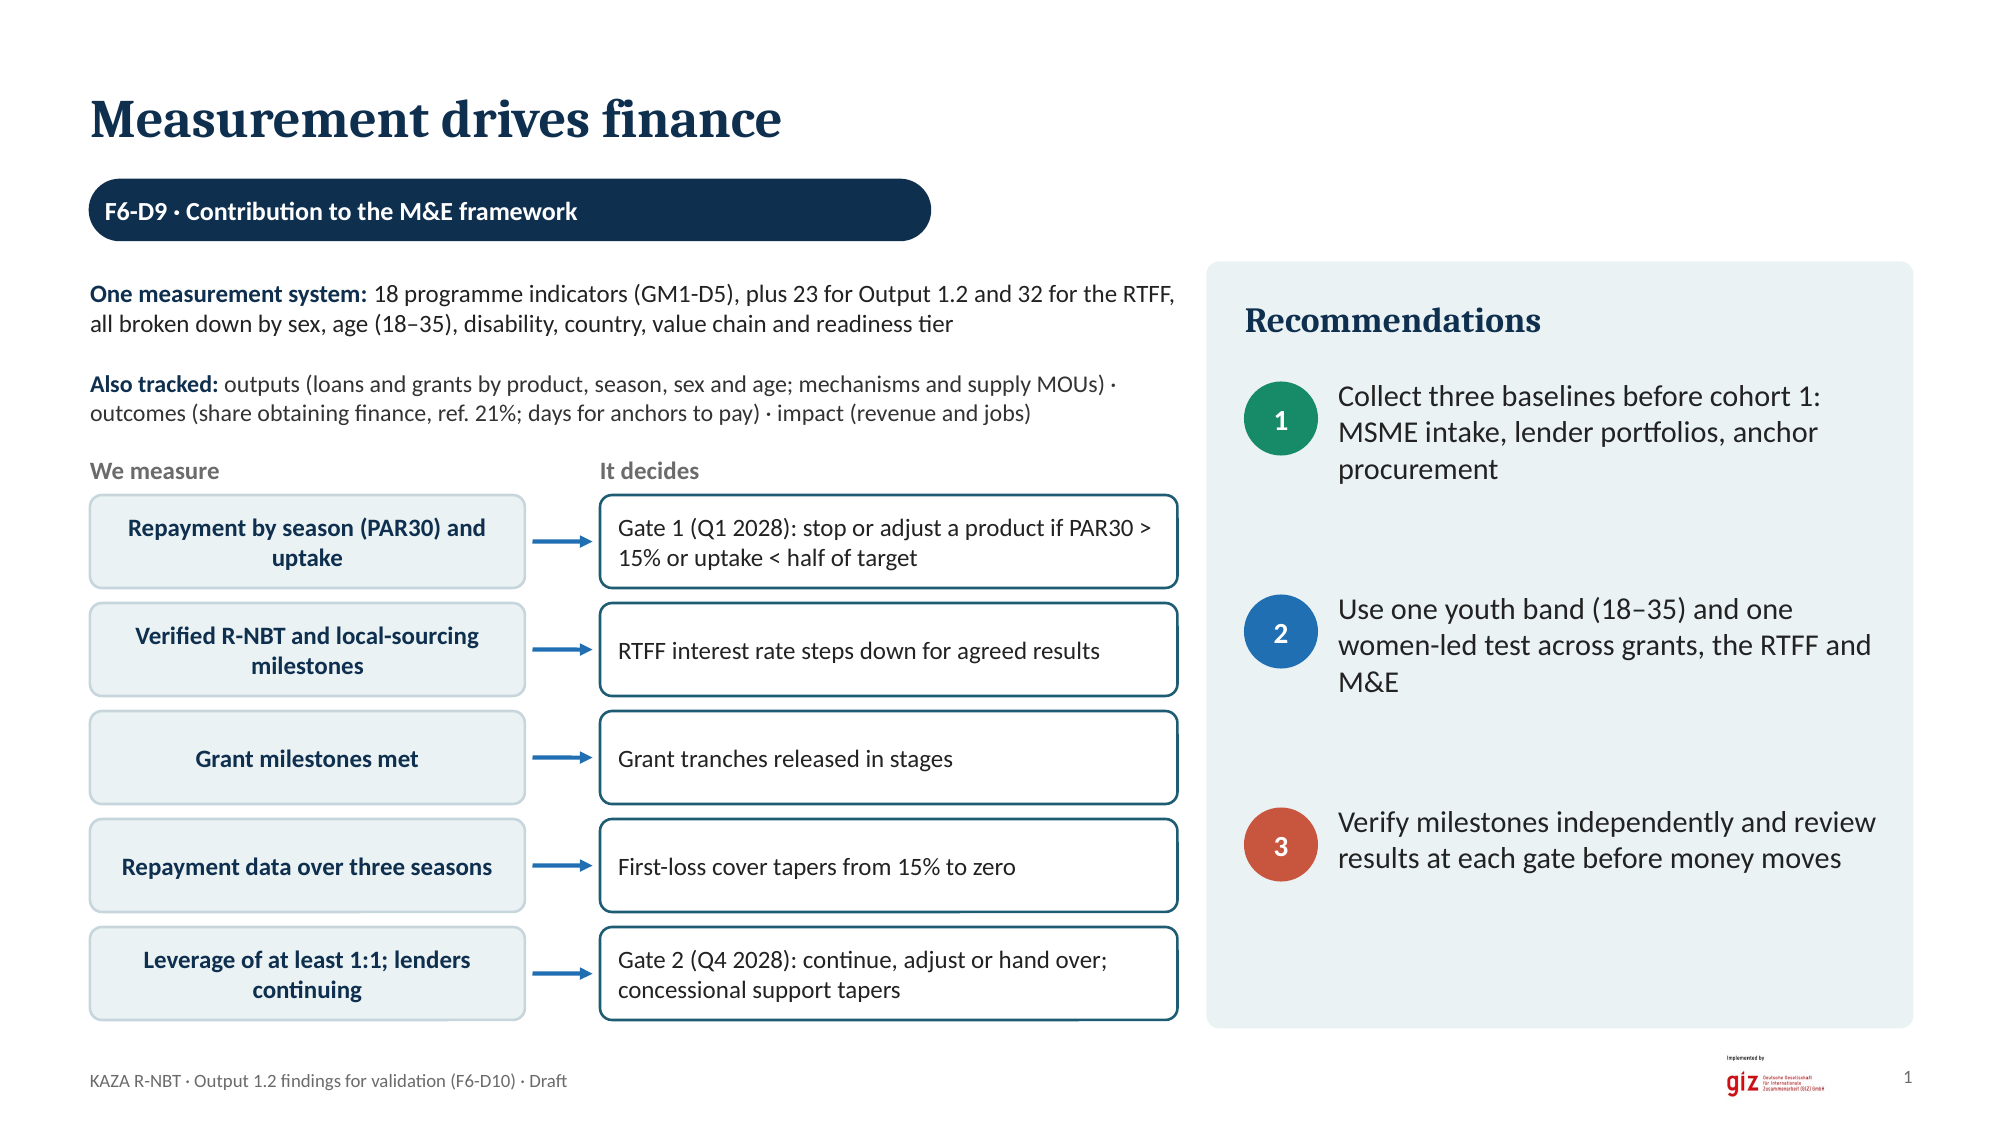
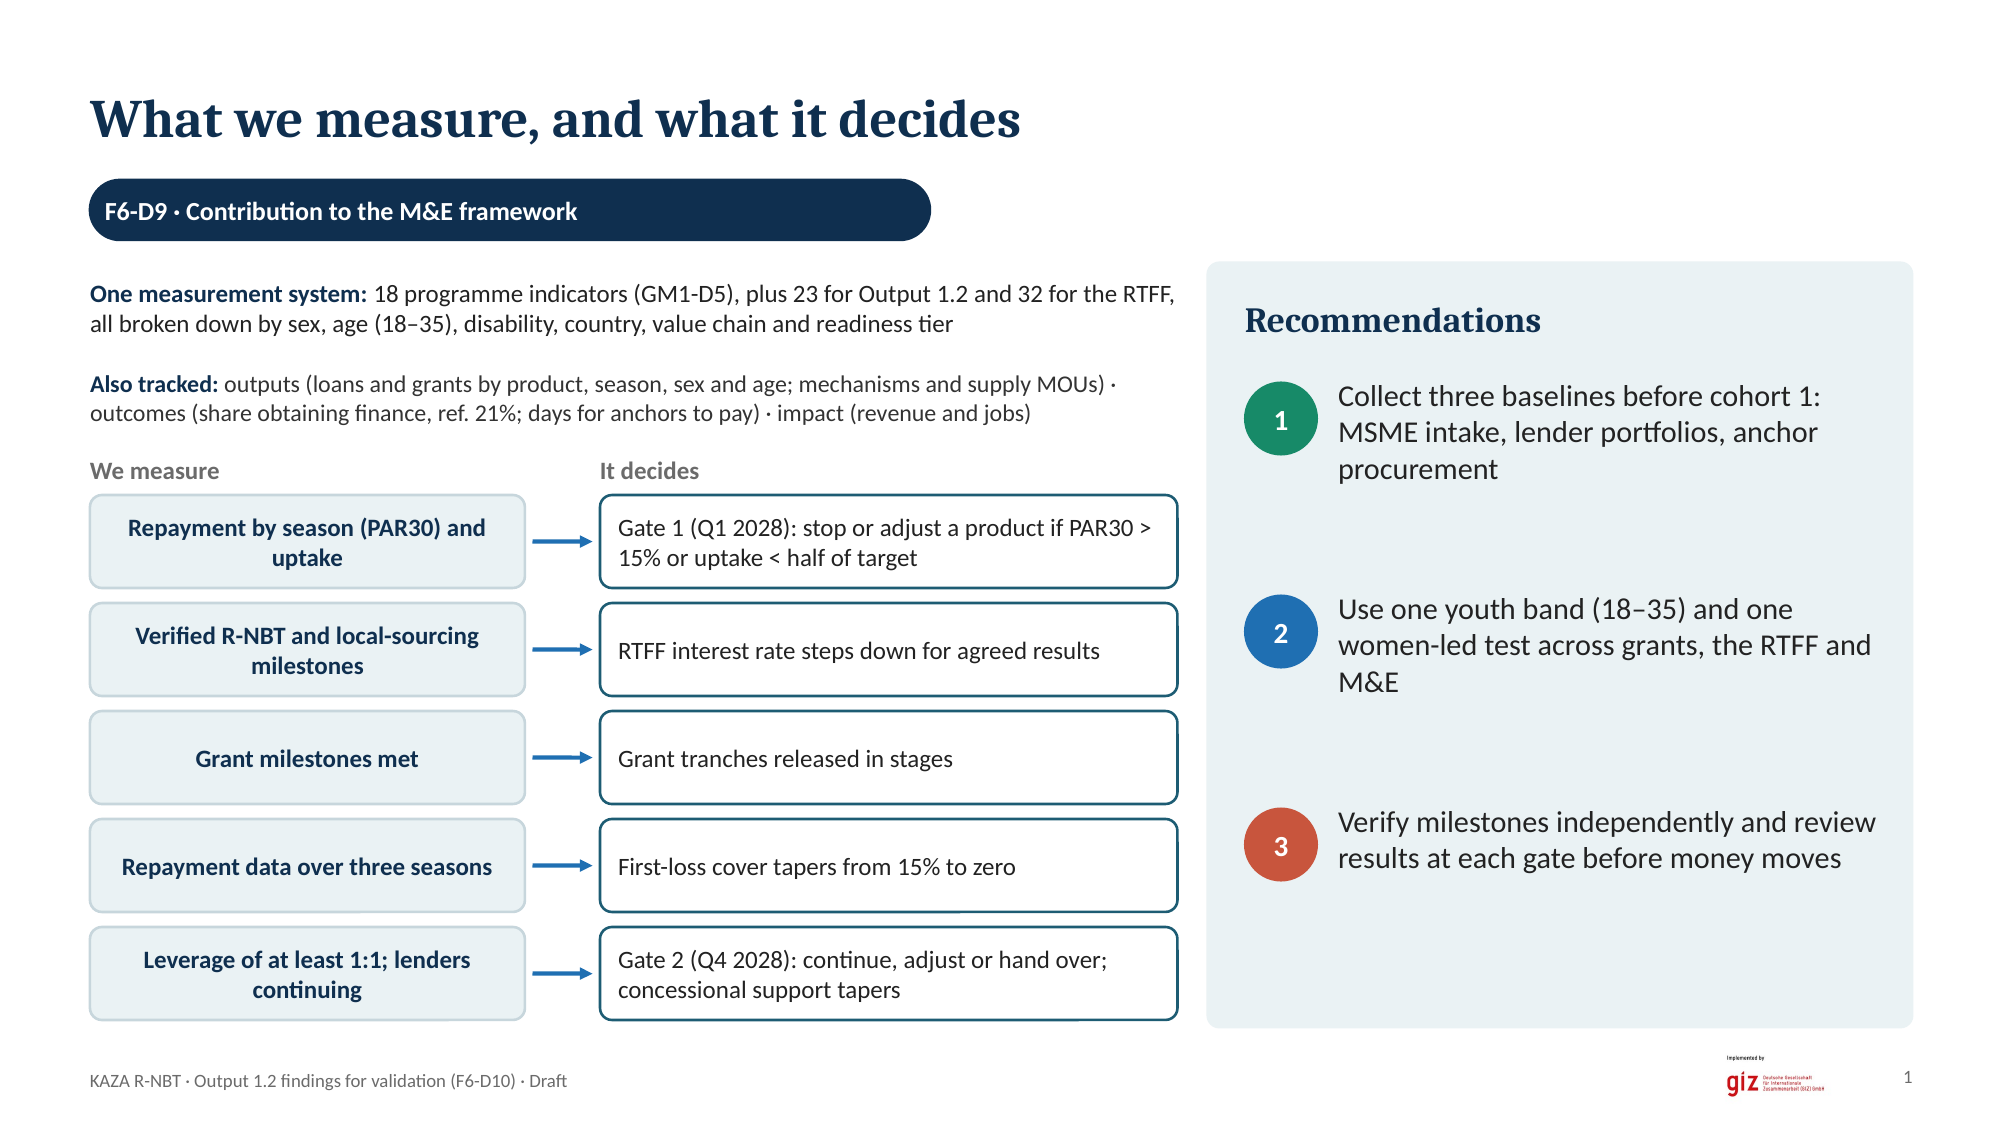
Measurement slide options: title 'What we measure, and what it decides'
Claude-Session: https://claude.ai/code/session_011XWUocPLDEJhFMTRB2RrxW

Changed region(s): [[0.031, 0.0933, 0.5267, 0.1244]]

diff --git a/deliverables/build/f6_d10_slide12_option.js b/deliverables/build/f6_d10_slide12_option.js
@@ -38,7 +38,7 @@ const dslide = (code, finding, recs, draw, notes) => {
 };
 
 sec("Synthesis F6-D9");
-dslide("F6-D9 · Contribution to the M&E framework", "Measurement drives finance", [
+dslide("F6-D9 · Contribution to the M&E framework", "What we measure, and what it decides", [
   "Collect three baselines before cohort 1: MSME intake, lender portfolios, anchor procurement",
   "Use one youth band (18–35) and one women-led test across grants, the RTFF and M&E",
   "Verify milestones independently and review results at each gate before money moves",

diff --git a/deliverables/build/f6_d11_slide11_option.js b/deliverables/build/f6_d11_slide11_option.js
@@ -28,7 +28,7 @@ const chip = (s, nums, label, lw) => {
 };
 
 sec("What we propose");
-const s = content("Measurement drives finance");
+const s = content("What we measure, and what it decides");
 chip(s, [2, 3, 4, 5], "Measurement informs decisions", 2.75);
 
 // ---- left: measure -> finance decision ----
